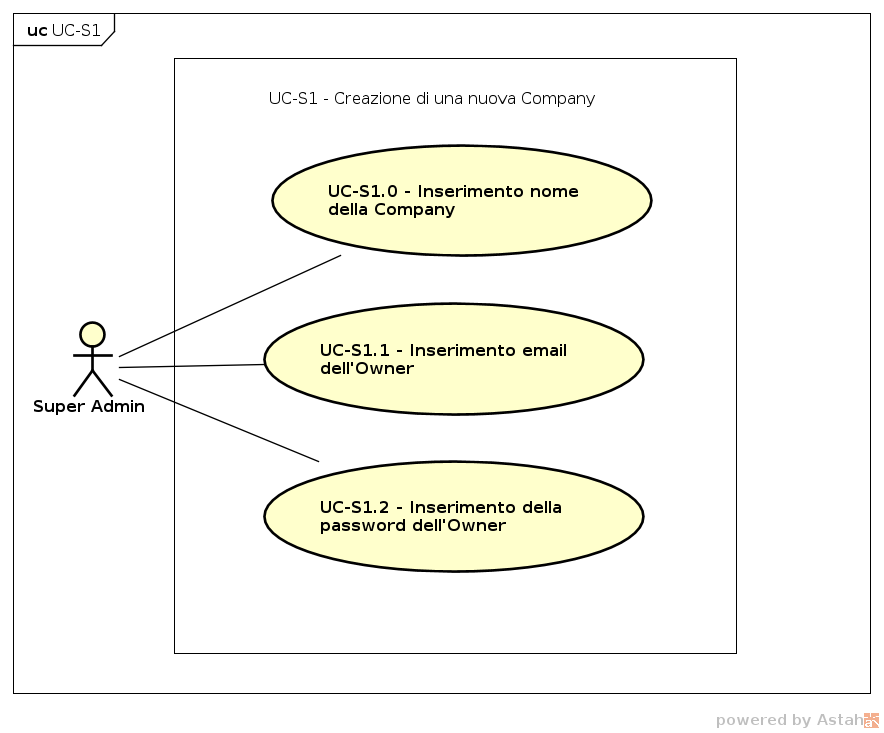
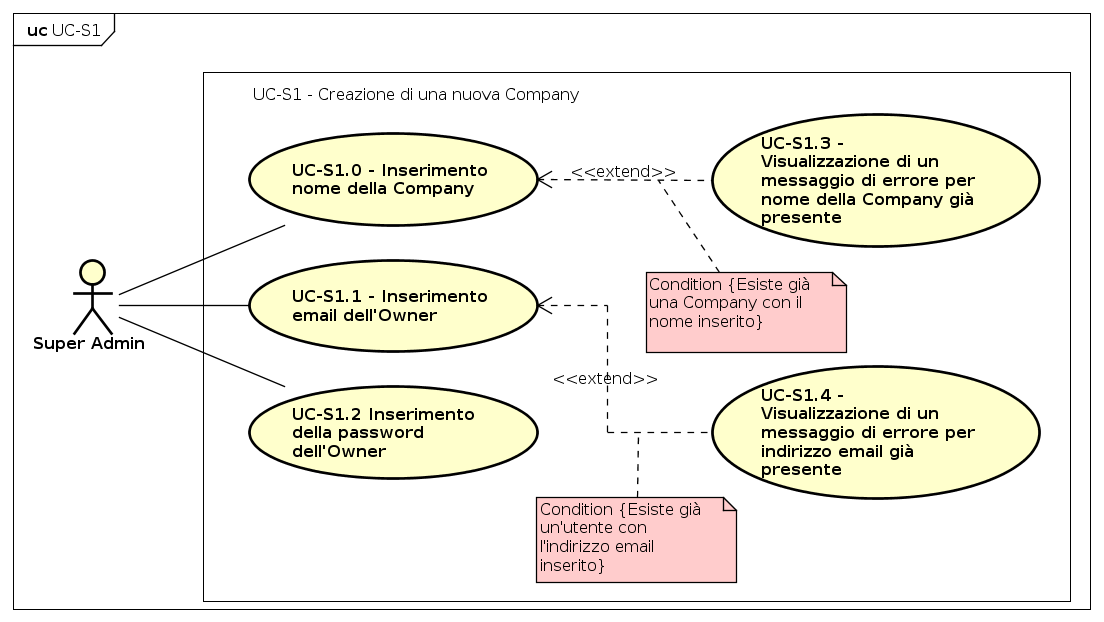
Add extension UCs and descriptions for UC-S1 in "Super Admin"

diff --git a/official/AnalisiDeiRequisiti/res/sections/superadmin.tex b/official/AnalisiDeiRequisiti/res/sections/superadmin.tex
@@ -65,32 +65,33 @@ Di seguito vengono elencati i \glossaryItem{casi} d'uso per il \glossaryItem{Sup
         \hline
         
         \textbf{Attori Primari} & \glossaryItem{Super-Admin}.\\  
+        \textbf{Scopo e descrizione} & L'applicazione offre un form nel quale il \glossaryItem{Super-Admin} può inserire i dati necessari alla creazione di una nuova \glossaryItem{Company} \\
         \textbf{Precondizioni}  & Il sistema fornisce al \glossaryItem{Super-Admin} un form di registrazione.  \\ 
         
         \textbf{Postcondizioni} & Il sistema ha aggiunto una nuova \glossaryItem{Company} e il suo \glossaryItem{Owner}. \\ 
-        \textbf{Scenario principale} & 1. Il \glossaryItem{Super-Admin} inserisce il nome della \glossaryItem{Company}.
+        \textbf{Scenario principale} & 1. Il \glossaryItem{Super-Admin} inserisce il nome della \glossaryItem{Company}. (UC-S1.0)
         
-        2. Il \glossaryItem{Super-Admin} inserisce la propria email.
+        2. Il \glossaryItem{Super-Admin} inserisce la propria email. (UC-S1.1)
         
-        3. Il \glossaryItem{Super-Admin} inserisce una password. \\ 
-        \textbf{Estensioni} & 1. la \glossaryItem{Company} esiste gi\`a. 
+        3. Il \glossaryItem{Super-Admin} inserisce una password. (UC-S1.2) \\ 
+        \textbf{Estensioni} & 1. la \glossaryItem{Company} esiste gi\`a. (UC-S1.3)
         
-        2. L'email inserita \`e gi\`a stata usata. \\
+        2. L'email inserita \`e gi\`a stata usata. (UC-S1.4) \\
       \end{longtable}
       \egroup
     \end{center}
 
 %%DA FARE
-    \subsubsection{Creazione di una nuova Company - inserimento del nome della nuova Company} 
+    \subsubsection{Creazione di una nuova Company - Inserimento del nome della nuova Company} 
     
     %Tabella 
     \begin{center}
-      \bgroup
-      \def\arraystretch{1.8}     
-      \begin{longtable}{  p{3.5cm} | p{8cm} } 
-        
-        \hline
-        \multicolumn{2}{ | c | }{ \cellcolor[gray]{0.9} \textbf{UC-S1.0 - Inserimento del nome della \glossaryItem{Company} }} \\ 
+          \bgroup
+          \def\arraystretch{1.8}     
+          \begin{longtable}{  p{3.5cm} | p{8cm} } 
+            
+            \hline
+            \multicolumn{2}{ | c | }{ \cellcolor[gray]{0.9} \textbf{UC-S1.0 - Inserimento del nome della \glossaryItem{Company} }} \\ 
         \hline
         
         \textbf{Attori Primari} & \glossaryItem{Super-Admin}\\  
@@ -99,21 +100,25 @@ Di seguito vengono elencati i \glossaryItem{casi} d'uso per il \glossaryItem{Sup
         \textbf{Precondizioni}  & L'applicazione offre un campo testo. \\ 
         
         \textbf{Postcondizioni} & Il \glossaryItem{Super-Admin} ha compilato il campo testo relativo al nome della \glossaryItem{Company} \\ 
+        
+        \textbf{Scenario principale} & 1. Il \glossaryItem{Super-Admin} inserisce il nome della \glossaryItem{Company} nel \textit{form} offerto dall'applicazione. \\
+        
+        \textbf{Estensioni} & 1. Il nome della \glossaryItem{Company} inserito è già presente in MaaS. (UC-S1.3)
      \end{longtable}
       \egroup
     \end{center}
 
 
-\subsubsection{Creazione di una nuova Company - inserimento dell'email dell'Owner della nuova Company}
+\subsubsection{Creazione di una nuova Company - Inserimento dell'email dell'Owner della nuova Company}
     
     %Tabella 
     \begin{center}
-      \bgroup
-      \def\arraystretch{1.8}     
-      \begin{longtable}{  p{3.5cm} | p{8cm} } 
-        
-        \hline
-        \multicolumn{2}{ | c | }{ \cellcolor[gray]{0.9} \textbf{UC-S1.1 - Inserimento della email dell'\glossaryItem{Owner} }} \\ 
+          \bgroup
+          \def\arraystretch{1.8}     
+          \begin{longtable}{  p{3.5cm} | p{8cm} } 
+            
+            \hline
+            \multicolumn{2}{ | c | }{ \cellcolor[gray]{0.9} \textbf{UC-S1.1 - Inserimento della email dell'\glossaryItem{Owner} }} \\ 
         \hline
         
         \textbf{Attori Primari} & \glossaryItem{Super-Admin}\\  
@@ -122,11 +127,15 @@ Di seguito vengono elencati i \glossaryItem{casi} d'uso per il \glossaryItem{Sup
         \textbf{Precondizioni}  & L'applicazione offre un campo testo. \\ 
         
         \textbf{Postcondizioni} & Il \glossaryItem{Super-Admin} ha compilato il campo testo relativo all'email dell'\glossaryItem{Owner} \\ 
+        
+        \textbf{Scenario principale} & 1. Il \glossaryItem{Super-Admin} inserisce l'indirizzo email dell'Owner nel \textit{form} offerto dall'applicazione. \\
+        
+        \textbf{Estensioni} & 1. L'indirizzo email inserito è già presente in MaaS. (UC-S1.4)
      \end{longtable}
       \egroup
     \end{center}
 
-    \subsubsection{Creazione di una nuova Company - inserimento della password dell'Owner} 
+    \subsubsection{Creazione di una nuova Company - Inserimento della password dell'Owner} 
     
     %Tabella 
     \begin{center}
@@ -144,12 +153,59 @@ Di seguito vengono elencati i \glossaryItem{casi} d'uso per il \glossaryItem{Sup
         \textbf{Precondizioni}  & L'applicazione mostra un campo testo offuscato. \\ 
         
         \textbf{Postcondizioni} & Il \glossaryItem{Super-Admin} ha compilato il campo testo relativo alla password dell'\glossaryItem{Owner} \\ 
+        \\
+        \textbf{Scenario principale} & 1. Il \glossaryItem{Super-Admin} inserisce la password dell'Owner nel \textit{form} offerto dall'applicazione.
      \end{longtable}
       \egroup
     \end{center}
 
+\subsubsection{Fallimento della creazione di una Company - Nome della Company già presente} 
+    
+    %Tabella 
+    \begin{center}
+      \bgroup
+      \def\arraystretch{1.8}     
+      \begin{longtable}{  p{3.5cm} | p{8cm} } 
+        
+        \hline
+        \multicolumn{2}{ | c | }{ \cellcolor[gray]{0.9} \textbf{UC-S1.3 - Il nome della \glossaryItem{Company} è già presente}} \\ 
+        \hline
+        
+        \textbf{Attori Primari} & \glossaryItem{Super-Admin}\\  
+        \textbf{Scopo e descrizione} & Il \glossaryItem{Super-Admin} ha inserito un nome della \glossaryItem{Company} già presente nell'applicazione e il sistema comunica l'errore. \\
+      
+        \textbf{Precondizioni}  & L'applicazione ha ricevuto in input dei dati non validi per la creazione di una \glossaryItem{Company}. \\ 
+        
+        \textbf{Postcondizioni} & Il sistema mostra al \glossaryItem{Super-Admin} un messaggio di errore che comunica l'entità dell'input errato. \\ 
+         \textbf{Scenario principale} & 1. Il \glossaryItem{Super-Admin} visualizza l'errore. \\
+        
+     \end{longtable}
+      \egroup
+    \end{center}
 
-
+\subsubsection{Fallimento della creazione di una Company - Indirizzo email dell'Owner già presente} 
+    
+    %Tabella 
+    \begin{center}
+      \bgroup
+      \def\arraystretch{1.8}     
+      \begin{longtable}{  p{3.5cm} | p{8cm} } 
+        
+        \hline
+        \multicolumn{2}{ | c | }{ \cellcolor[gray]{0.9} \textbf{UC-S1.4 - L'indirizzo email dell'Owner è già presente}} \\ 
+        \hline
+        
+        \textbf{Attori Primari} & \glossaryItem{Super-Admin}\\  
+        \textbf{Scopo e descrizione} & Il \glossaryItem{Super-Admin} ha inserito un indirizzo email già presente nell'applicazione e il sistema comunica l'errore. \\
+      
+        \textbf{Precondizioni}  & L'applicazione ha ricevuto in input dei dati non validi per la creazione di una \glossaryItem{Company}. \\ 
+        
+        \textbf{Postcondizioni} & Il sistema mostra al \glossaryItem{Super-Admin} un messaggio di errore che comunica l'entità dell'input errato. \\ 
+         \textbf{Scenario principale} & 1. Il \glossaryItem{Super-Admin} visualizza l'errore. \\
+        
+     \end{longtable}
+      \egroup
+    \end{center}
 
 
 
